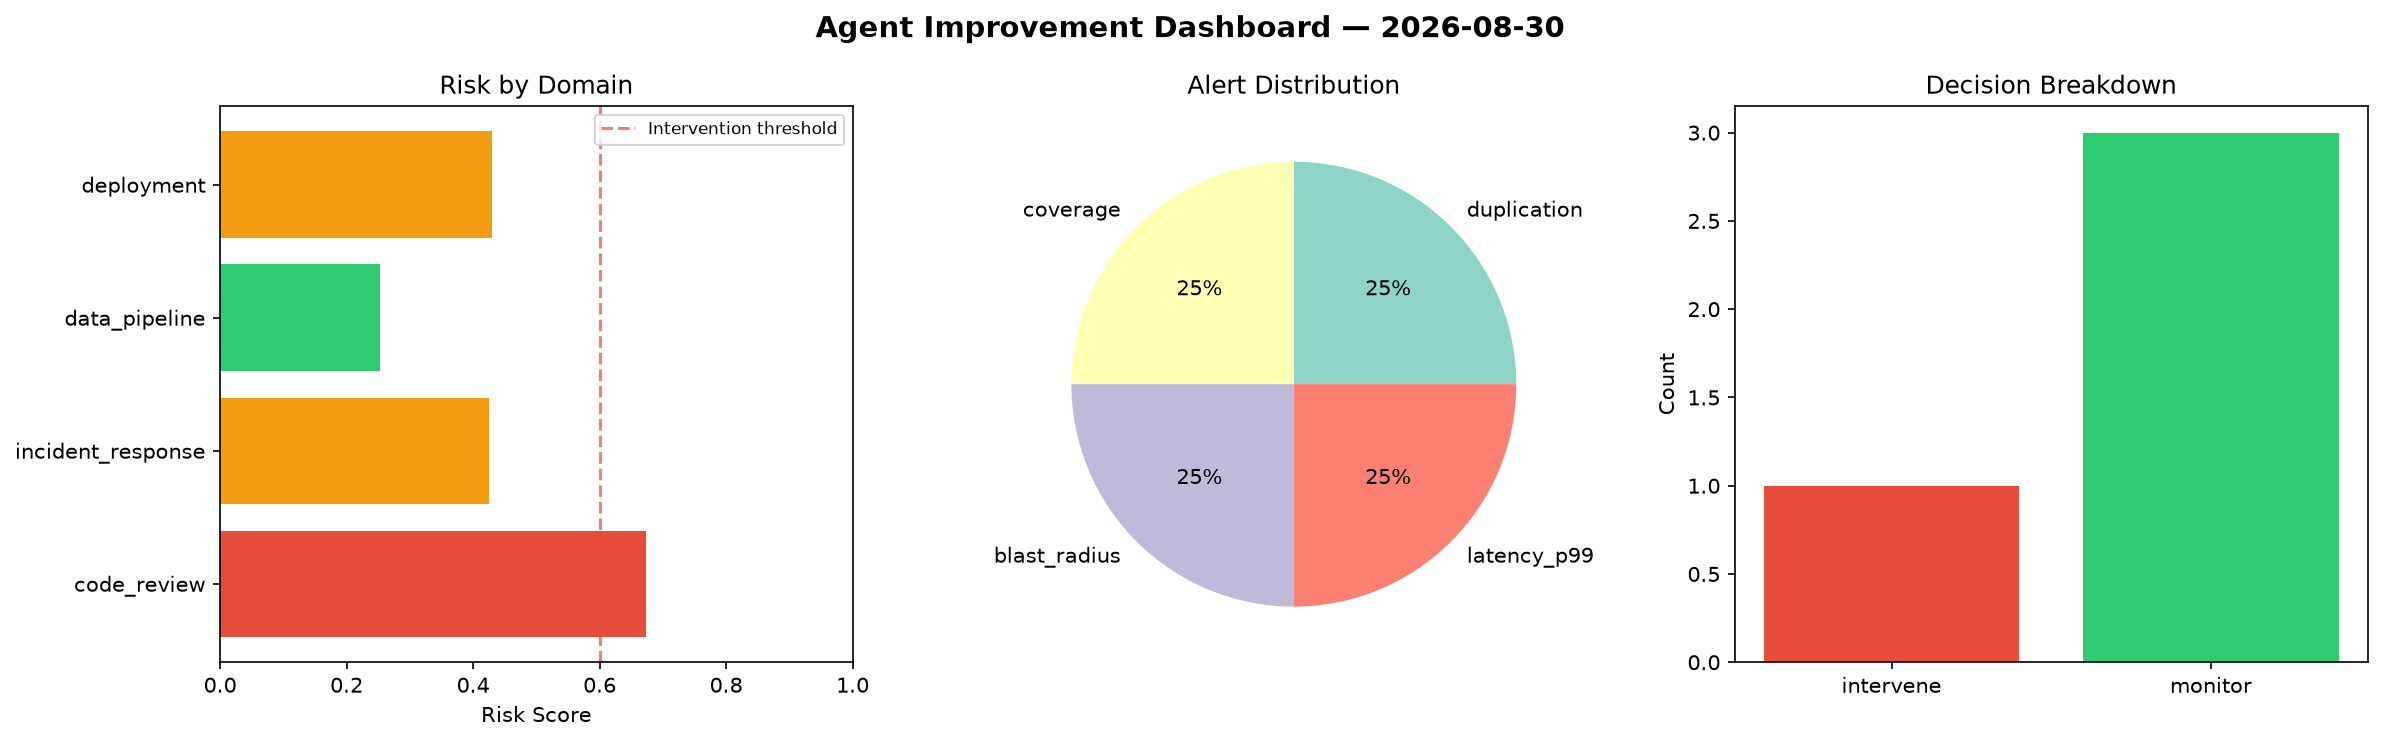
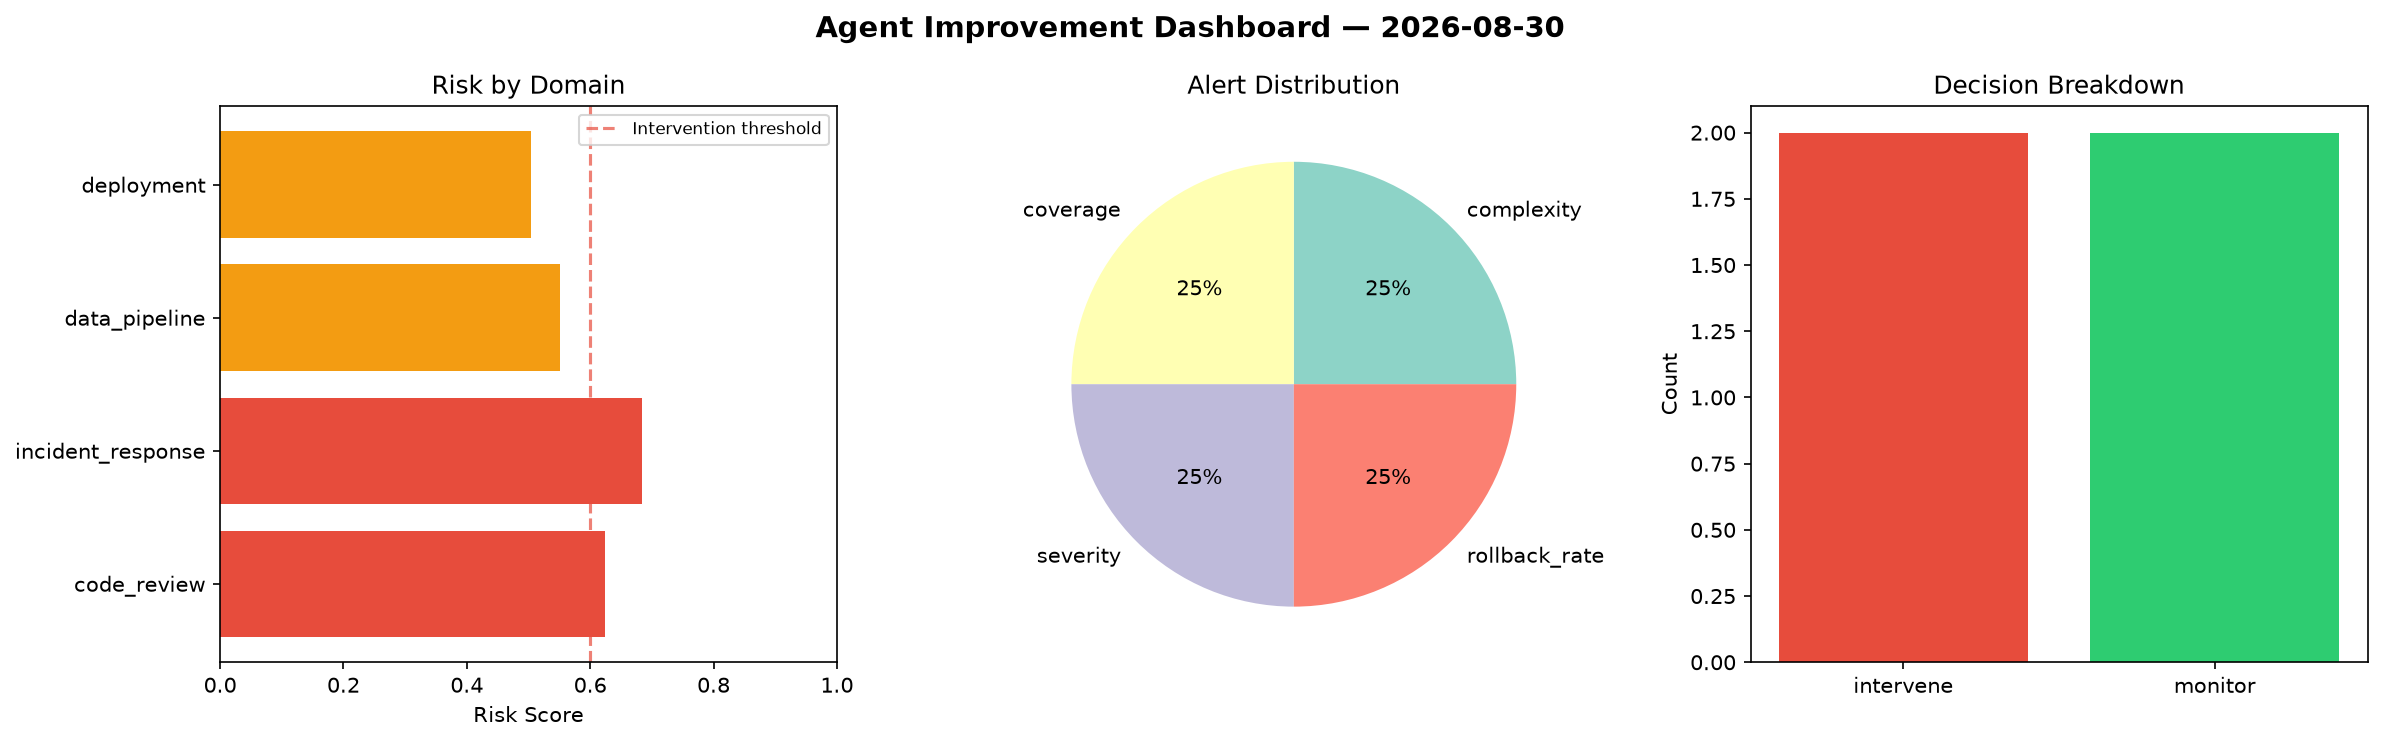
agent-improvement: daily cycle 2026-08-30T18:04

diff --git a/logs/2026-08-30.md b/logs/2026-08-30.md
@@ -1,6 +1,6 @@
 # Agent Improvement Report — 2026-08-30
 
-**Cycle ID:** `413d331e` | **Avg Risk:** 0.4453 | **Interventions:** 1/4
+**Cycle ID:** `3eef1a25` | **Avg Risk:** 0.5904 | **Interventions:** 2/4
 
 ![Dashboard](2026-08-30_dashboard.png)
 
@@ -10,18 +10,18 @@
 
 | Domain | Risk Score | Decision | Alerts |
 |--------|-----------|----------|--------|
-| code_review | 0.6737 | intervene | duplication, coverage |
-| incident_response | 0.4253 | monitor | blast_radius |
-| data_pipeline | 0.252 | monitor | none |
-| deployment | 0.4303 | monitor | latency_p99 |
+| code_review | 0.6235 | intervene | complexity, coverage |
+| incident_response | 0.6834 | intervene | severity |
+| data_pipeline | 0.5509 | monitor | none |
+| deployment | 0.5039 | monitor | rollback_rate |
 
 ## Delta vs Yesterday
 
 | Domain | Today | Yesterday | Change |
 |--------|-------|-----------|--------|
-| code_review | 0.6737 | 0.5603 | 📈 20.2% |
-| incident_response | 0.4253 | 0.7049 | 📉 -39.7% |
-| data_pipeline | 0.252 | 0.536 | 📉 -53.0% |
-| deployment | 0.4303 | 0.4693 | 📉 -8.3% |
+| code_review | 0.6235 | 0.5603 | 📈 11.3% |
+| incident_response | 0.6834 | 0.7049 | 📉 -3.1% |
+| data_pipeline | 0.5509 | 0.536 | 📈 2.8% |
+| deployment | 0.5039 | 0.4693 | 📈 7.4% |
 
 **Refinement:** `{'adjustment': 'maintain', 'trend': 'improving', 'window': 4}`
